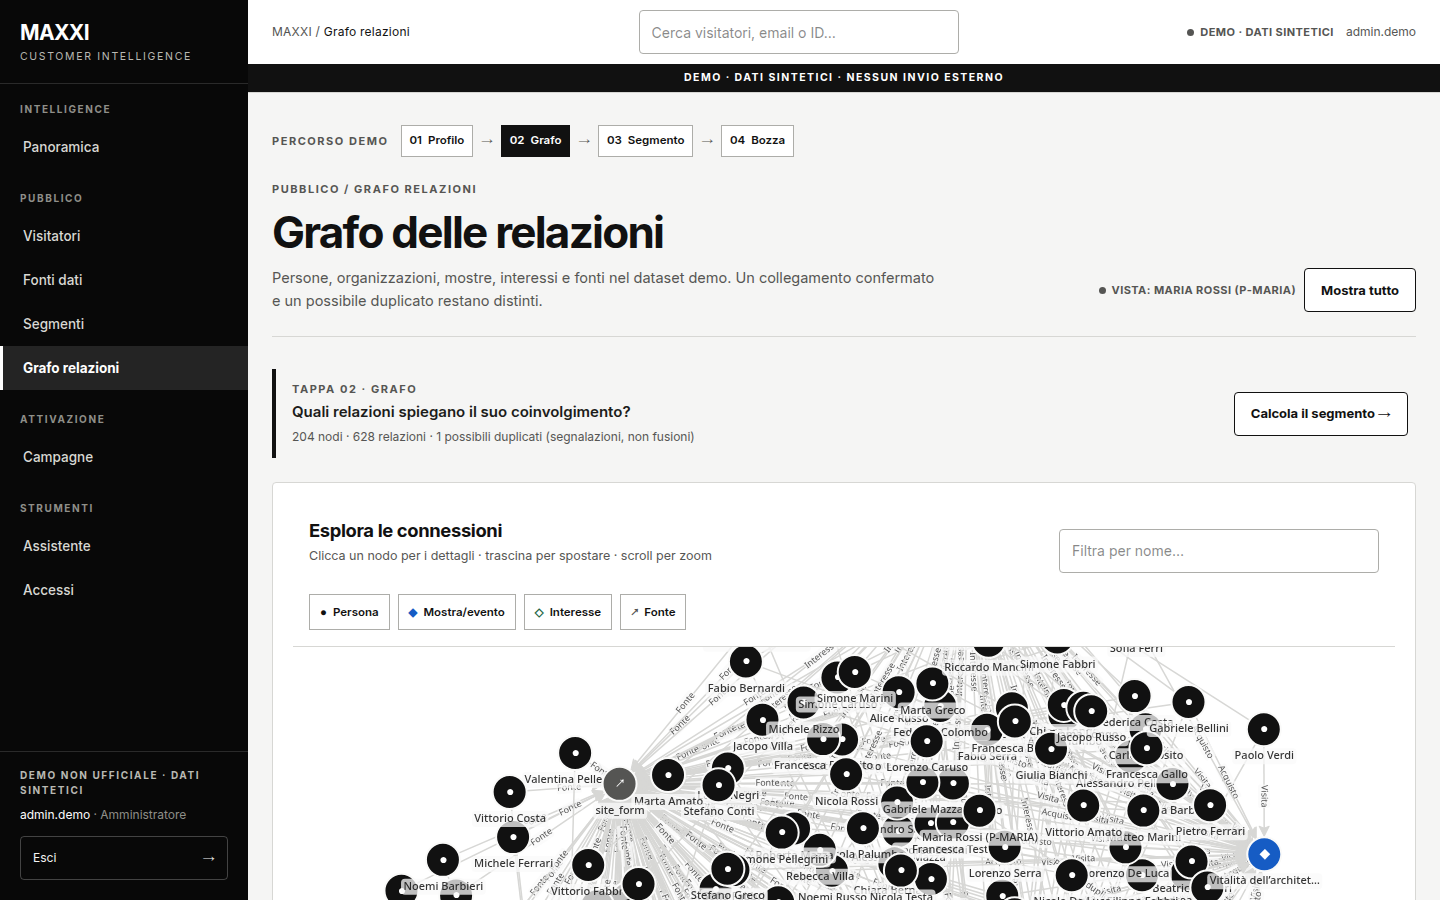
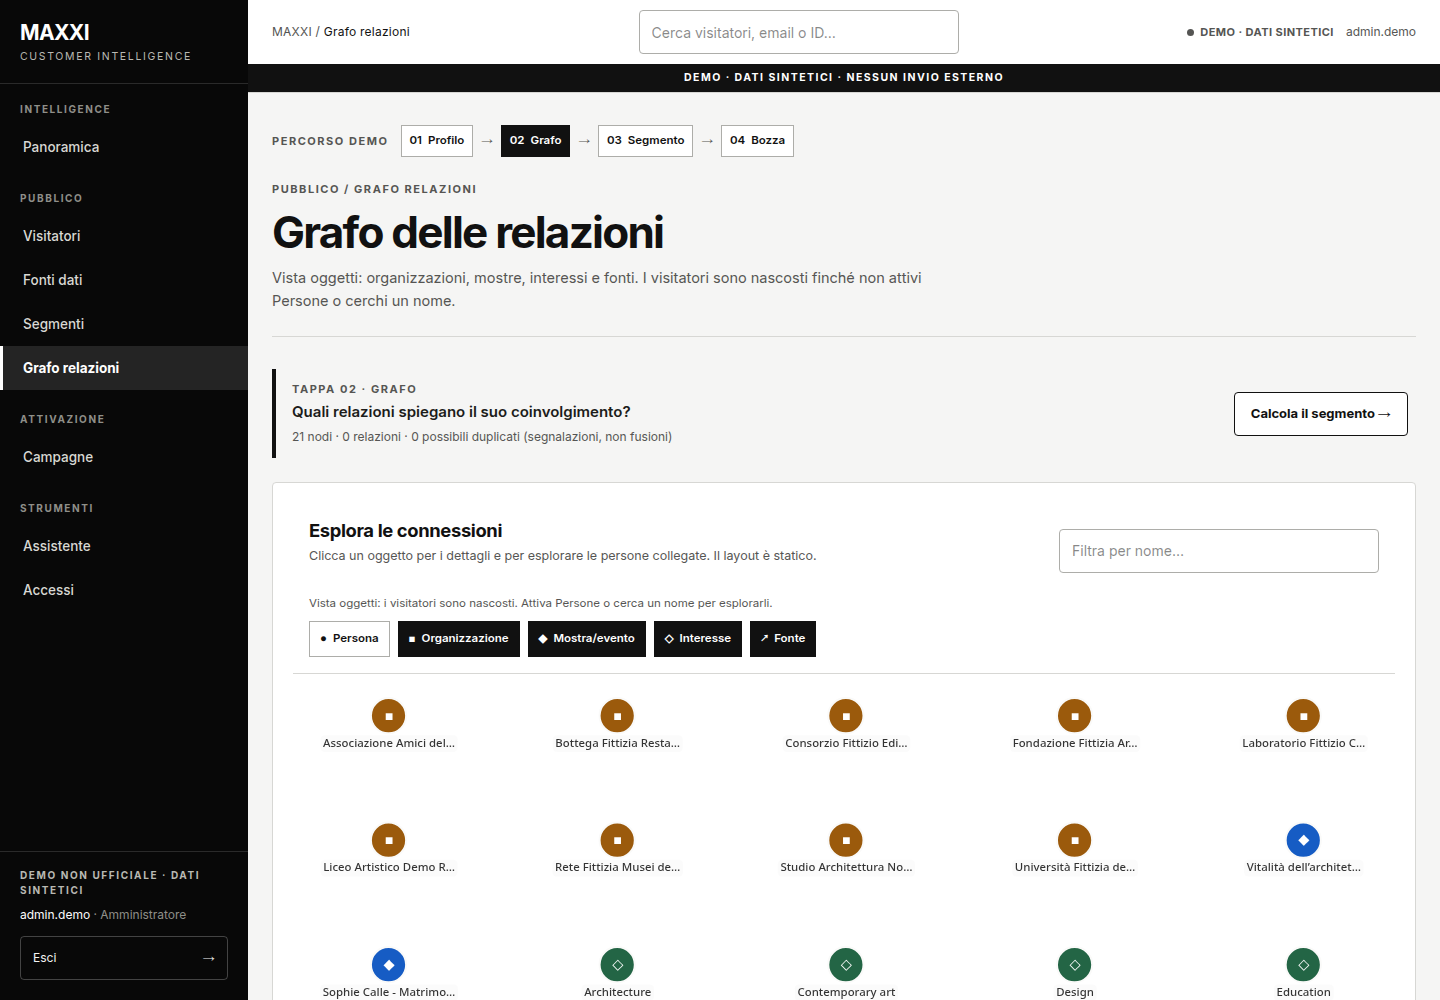
feat(maxxi): calmer, audience-aware graph
- central graph starts from objects (organizations, exhibitions, interests,
  sources) in a static grid; visitors are hidden until Persona is enabled
- a visitor focus keeps only that person plus connected objects; other
  visitors are hidden, with Persona/Mostra tutto as explicit escapes
- object detail gets "Esplora le persone collegate" to drill down
- type buttons are visibility toggles, not an exclusive filter
- G6 layout for MAXXI is computed to its final state (animation off,
  preLayout, 200 iterations): nodes no longer drift on stage
- screenshots and docs updated

diff --git a/apps/web/app/maxxi/graph/page.tsx b/apps/web/app/maxxi/graph/page.tsx
@@ -50,7 +50,12 @@ function GraphInner() {
 	const [data, setData] = useState<GraphData>({ nodes: [], edges: [], truncated: false });
 	const [loading, setLoading] = useState(true);
 	const [error, setError] = useState<string | null>(null);
-	const [types, setTypes] = useState<string[]>([]);
+	// Type buttons are visibility toggles, not an exclusive filter. Visitors
+	// start hidden in both views so the object graph stays legible; the focus
+	// person is always kept even when the person type is hidden.
+	const [hiddenTypes, setHiddenTypes] = useState<string[]>(
+		initialFocus && !initialFocus.startsWith("P-") ? [] : ["person"],
+	);
 	const [search, setSearch] = useState("");
 	const [focus] = useState<string | null>(initialFocus);
 	const [depth] = useState<number>(Number.isFinite(initialDepth) ? initialDepth : 2);
@@ -72,7 +77,6 @@ function GraphInner() {
 		setError(null);
 		try {
 			const query = new URLSearchParams();
-			if (types.length > 0) {query.set("type", types.join(","));}
 			if (focus) {query.set("focus", focus);query.set("depth", String(depth));}
 			const qs = query.toString();
 			const res = await fetch(`/api/maxxi/graph${qs ? `?${qs}` : ""}`, { cache: "no-store" });
@@ -84,7 +88,7 @@ function GraphInner() {
 		} finally {
 			setLoading(false);
 		}
-	}, [types, focus, depth]);
+	}, [focus, depth]);
 
 	useEffect(() => {
 		void load();
@@ -112,20 +116,38 @@ function GraphInner() {
 	}, [initialNode, selectNode]);
 
 	const displayed = useMemo<GraphData>(() => {
-		const needle = search.trim().toLowerCase();
-		if (!needle) {return data;}
-		const kept = new Set(
-			data.nodes.filter((node) => node.label.toLowerCase().includes(needle)).map((node) => node.id),
+		let nodes = data.nodes.filter((node) => node.id === focus || !hiddenTypes.includes(node.type));
+		let edges = data.edges.filter(
+			(edge) => nodes.some((node) => node.id === edge.source) && nodes.some((node) => node.id === edge.target),
 		);
-		return {
-			nodes: data.nodes.filter((node) => kept.has(node.id)),
-			edges: data.edges.filter((edge) => kept.has(edge.source) && kept.has(edge.target)),
-			truncated: data.truncated,
-		};
-	}, [data, search]);
+
+		// In a visitor view, drop objects that were only reachable through
+		// another (hidden) visitor. Central views keep the object catalogue
+		// even when its nodes are not connected to each other.
+		if (focus && hiddenTypes.includes("person")) {
+			const connected = new Set<string>([focus]);
+			for (const edge of edges) {
+				connected.add(edge.source);
+				connected.add(edge.target);
+			}
+			nodes = nodes.filter((node) => connected.has(node.id));
+			edges = edges.filter((edge) => connected.has(edge.source) && connected.has(edge.target));
+		}
+
+		const needle = search.trim().toLowerCase();
+		if (needle) {
+			const matching = new Set(
+				nodes.filter((node) => node.label.toLowerCase().includes(needle)).map((node) => node.id),
+			);
+			nodes = nodes.filter((node) => matching.has(node.id));
+			edges = edges.filter((edge) => matching.has(edge.source) && matching.has(edge.target));
+		}
+
+		return { nodes, edges, truncated: data.truncated };
+	}, [data, focus, hiddenTypes, search]);
 
 	const toggleType = (type: string) => {
-		setTypes((current) =>
+		setHiddenTypes((current) =>
 			current.includes(type) ? current.filter((value) => value !== type) : [...current, type],
 		);
 	};
@@ -138,6 +160,11 @@ function GraphInner() {
 	const focusLabel = focus
 		? data.nodes.find((node) => node.id === focus)?.label ?? focus
 		: null;
+	const focusIsPerson = focus
+		? data.nodes.find((node) => node.id === focus)?.type === "person"
+		: false;
+	const peopleHidden = hiddenTypes.includes("person");
+	const filtersDirty = search.trim().length > 0 || hiddenTypes.join(",") !== "person";
 
 	const panel = selectedId ? (
 		<GraphPanel
@@ -154,7 +181,11 @@ function GraphInner() {
 			<PageHeader
 				eyebrow="Pubblico / Grafo relazioni"
 				title="Grafo delle relazioni"
-				subtitle="Persone, organizzazioni, mostre, interessi e fonti nel dataset demo. Un collegamento confermato e un possibile duplicato restano distinti."
+				subtitle={
+					focusIsPerson
+						? "Vista centrata sul visitatore: oggetti e relazioni dirette. Gli altri visitatori restano nascosti per non affollare la vista."
+						: "Vista oggetti: organizzazioni, mostre, interessi e fonti. I visitatori sono nascosti finché non attivi Persone o cerchi un nome."
+				}
 				actions={
 					focusLabel ? (
 						<>
@@ -170,14 +201,20 @@ function GraphInner() {
 			<StepBrief
 				step={1}
 				question="Quali relazioni spiegano il suo coinvolgimento?"
-				evidence={`${data.nodes.length} nodi · ${data.edges.length} relazioni · ${data.edges.filter((edge) => edge.rel === "duplicate").length} possibili duplicati (segnalazioni, non fusioni)`}
+				evidence={`${displayed.nodes.length} nodi · ${displayed.edges.length} relazioni${focusIsPerson ? " · altri visitatori nascosti" : ""} · ${displayed.edges.filter((edge) => edge.rel === "duplicate").length} possibili duplicati (segnalazioni, non fusioni)`}
 				next={{ href: "/maxxi/segments", label: "Calcola il segmento" }}
 			/>
 
 			<Card className="p-0">
 				<div className="border-b p-4" style={{ borderColor: "var(--maxxi-line)" }}>
 					<div className="flex flex-wrap items-center justify-between gap-3">
-						<SectionTitle hint="Clicca un nodo per i dettagli · trascina per spostare · scroll per zoom">
+						<SectionTitle
+							hint={
+								displayed.edges.length === 0
+									? "Clicca un oggetto per i dettagli e per esplorare le persone collegate. Il layout è statico."
+									: "Clicca un nodo per i dettagli · trascina per spostare · scroll per zoom. Il layout è statico: i nodi non si muovono da soli."
+							}
+						>
 							Esplora le connessioni
 						</SectionTitle>
 						<input
@@ -189,10 +226,17 @@ function GraphInner() {
 							className="maxxi-input max-w-xs"
 						/>
 					</div>
-					<div className="mt-3 flex flex-wrap items-center gap-2">
+					<p className="mt-3 text-[11.5px] leading-relaxed" style={{ color: "var(--maxxi-muted)" }}>
+						{peopleHidden
+							? focusIsPerson
+								? "Vista sul visitatore: sono visibili solo gli oggetti collegati. Attiva Persone per includere gli altri visitatori."
+								: "Vista oggetti: i visitatori sono nascosti. Attiva Persone o cerca un nome per esplorarli."
+							: "Vista completa: sono inclusi anche i visitatori."}
+					</p>
+					<div className="mt-2 flex flex-wrap items-center gap-2">
 						{availableTypes.map((type) => {
 							const meta = metaForType(type);
-							const active = types.includes(type);
+							const active = !hiddenTypes.includes(type);
 							return (
 								<button
 									key={type}
@@ -213,13 +257,13 @@ function GraphInner() {
 								</button>
 							);
 						})}
-						{(types.length > 0 || search) && (
+						{filtersDirty && (
 							<button
 								type="button"
-								onClick={() => { setTypes([]); setSearch(""); }}
+								onClick={() => { setHiddenTypes(["person"]); setSearch(""); }}
 								className="maxxi-secondary-action"
 							>
-								Azzera filtri
+								Reimposta vista
 							</button>
 						)}
 					</div>
@@ -237,10 +281,13 @@ function GraphInner() {
 							<Empty>Nessun nodo corrisponde ai filtri correnti.</Empty>
 						) : (
 							<G6Canvas
+								key={displayed.edges.length === 0 ? "grid" : "force"}
 								nodes={displayed.nodes}
 								edges={displayed.edges}
 								theme={theme}
 								onNodeClick={selectNode}
+								stableLayout
+								layoutMode={displayed.edges.length === 0 ? "grid" : "force"}
 							/>
 						)}
 						{!loading && !error && displayed.nodes.length > 0 && (
@@ -311,9 +358,16 @@ function GraphPanel({
 				</button>
 			</div>
 
-			{detail.type === "person" && (
+			{detail.type === "person" ? (
 				<Link href={`/maxxi/people?id=${encodeURIComponent(detail.id)}`} className="maxxi-primary-action">
 					Apri profilo 360
+				</Link>
+			) : (
+				<Link
+					href={`/maxxi/graph?focus=${encodeURIComponent(detail.id)}&depth=2`}
+					className="maxxi-primary-action"
+				>
+					Esplora le persone collegate
 				</Link>
 			)}
 

diff --git a/apps/web/app/components/crm/graph/g6-canvas.tsx b/apps/web/app/components/crm/graph/g6-canvas.tsx
@@ -12,6 +12,13 @@ type G6CanvasProps = {
   edges: G6Edge[];
   theme: GraphTheme;
   onNodeClick?: (id: string) => void;
+  /**
+   * Compute the force layout to its final state before drawing. The MAXXI
+   * graph opts in: an animated simulation reads as "dancing" nodes on stage.
+   */
+  stableLayout?: boolean;
+  /** `grid` is used for the object-only overview (no edges to lay out). */
+  layoutMode?: "force" | "grid";
 };
 
 /**
@@ -27,7 +34,7 @@ type G6CanvasProps = {
  *    data effect drives the first render — two concurrent renders race the
  *    init and throw `getTransformInstance`.
  */
-export function G6Canvas({ nodes, edges, theme, onNodeClick }: G6CanvasProps) {
+export function G6Canvas({ nodes, edges, theme, onNodeClick, stableLayout = false, layoutMode = "force" }: G6CanvasProps) {
   const containerRef = useRef<HTMLDivElement | null>(null);
   const graphRef = useRef<Graph | null>(null);
   const clickRef = useRef(onNodeClick);
@@ -84,12 +91,22 @@ export function G6Canvas({ nodes, edges, theme, onNodeClick }: G6CanvasProps) {
           inactive: { opacity: 0.08 },
         },
       },
-      layout: {
-        type: "d3-force",
-        collide: { radius: 40 },
-        link: { distance: 120 },
-        manyBody: { strength: -220 },
-      },
+      layout:
+        layoutMode === "grid"
+          ? {
+              type: "grid",
+              animation: false,
+              preLayout: true,
+              cols: Math.ceil(Math.sqrt(Math.max(1, nodes.length))),
+              nodeSize: 42,
+            }
+          : {
+              type: "d3-force",
+              collide: { radius: 40 },
+              link: { distance: 120 },
+              manyBody: { strength: -220 },
+              ...(stableLayout ? { animation: false, preLayout: true, iterations: 200 } : {}),
+            },
       behaviors: ["drag-canvas", "zoom-canvas", "drag-element", "click-select", "hover-activate"],
       plugins: [
         {
@@ -132,7 +149,7 @@ export function G6Canvas({ nodes, edges, theme, onNodeClick }: G6CanvasProps) {
       graphRef.current = null;
     };
     // eslint-disable-next-line react-hooks/exhaustive-deps
-  }, []);
+  }, [layoutMode]);
 
   useEffect(() => {
     const graph = graphRef.current;

diff --git a/docs/maxxi/GRAPH.md b/docs/maxxi/GRAPH.md
@@ -35,12 +35,21 @@ confermata. Non viene mai presentato come collegamento certo.
 
 ## Interazione
 
+- **Vista centrale**: parte dagli oggetti (organizzazioni, mostre, interessi,
+  fonti) in una griglia leggibile; i visitatori sono nascosti per non affollare
+  la vista. Il pulsante **Persona** li mostra su richiesta.
+- **Vista da un visitatore** (`?focus=P-…`): il visitatore è al centro e
+  restano visibili solo i suoi oggetti collegati; gli altri visitatori sono
+  nascosti. **Persona** li include, **Mostra tutto** torna alla vista oggetti.
 - clic su un nodo → dettaglio laterale (o sotto il canvas su mobile);
 - dettaglio persona → **Apri profilo 360**;
-- filtro per tipo e ricerca testuale sui label;
+- dettaglio oggetto → **Esplora le persone collegate** (focus sull’oggetto);
+- filtro per tipo (visibilità, non selezione esclusiva) e ricerca testuale;
 - focus via link: `/maxxi/graph?focus=P-MARIA&depth=2`;
 - apertura diretta del dettaglio: `/maxxi/graph?node=P-MARIA`;
-- dal profilo visitatore, **Vedi relazioni** apre il focus a due hop.
+- dal profilo visitatore, **Vedi relazioni** apre il focus sul visitatore.
+- Il layout è **statico**: viene calcolato una volta e non animato; i nodi si
+  muovono solo se trascinati.
 
 ## Permessi
 
@@ -53,9 +62,10 @@ Per il principal `service` valgono le stesse regole read-only.
 
 ## Prestazioni e cache
 
-La proiezione esegue diverse query sul DuckDB demo. Il risultato viene
-memorizzato per 10 secondi; il seed invalida la cache. La prima apertura può
-richiedere alcuni secondi, le successive sono immediate.
+La proiezione esegue diverse query sul DuckDB demo, servito dal sidecar
+Quack (vedi `PERFORMANCE.md`). Il risultato viene memorizzato per 10 secondi;
+il seed invalida la cache. La prima apertura può richiedere qualche istante,
+le successive sono immediate.
 
 ## Limiti dichiarati
 

diff --git a/docs/maxxi/UI_QA.md b/docs/maxxi/UI_QA.md
@@ -40,7 +40,8 @@ Ambiente: build di produzione Next.js servita su `http://localhost:3100`
 | `screenshots/09-overview-mobile.png` | Panoramica | 375×812 |
 | `screenshots/10-mobile-drawer.png` | Drawer di navigazione | 375×812 |
 | `screenshots/11-profile-mobile.png` | Visitatore 360 (`P-GIULIA`) | 375×812 |
-| `screenshots/12-graph-desktop.png` | Grafo relazioni, focus su Maria | 1440×900 |
+| `screenshots/12-graph-focus.png` | Grafo centrato su un visitatore, oggetti collegati | 1440×900 |
+| `screenshots/12-graph-desktop.png` | Grafo relazioni, vista oggetti (visitatori nascosti) | 1440×900 |
 | `screenshots/12b-graph-mobile.png` | Grafo relazioni | 375×812 |
 | `screenshots/12c-graph-detail.png` | Dettaglio nodo nel grafo | 1440×900 |
 | `screenshots/13-campaign-versions.png` | Bozza versionata e snapshot | 1440×900 |
